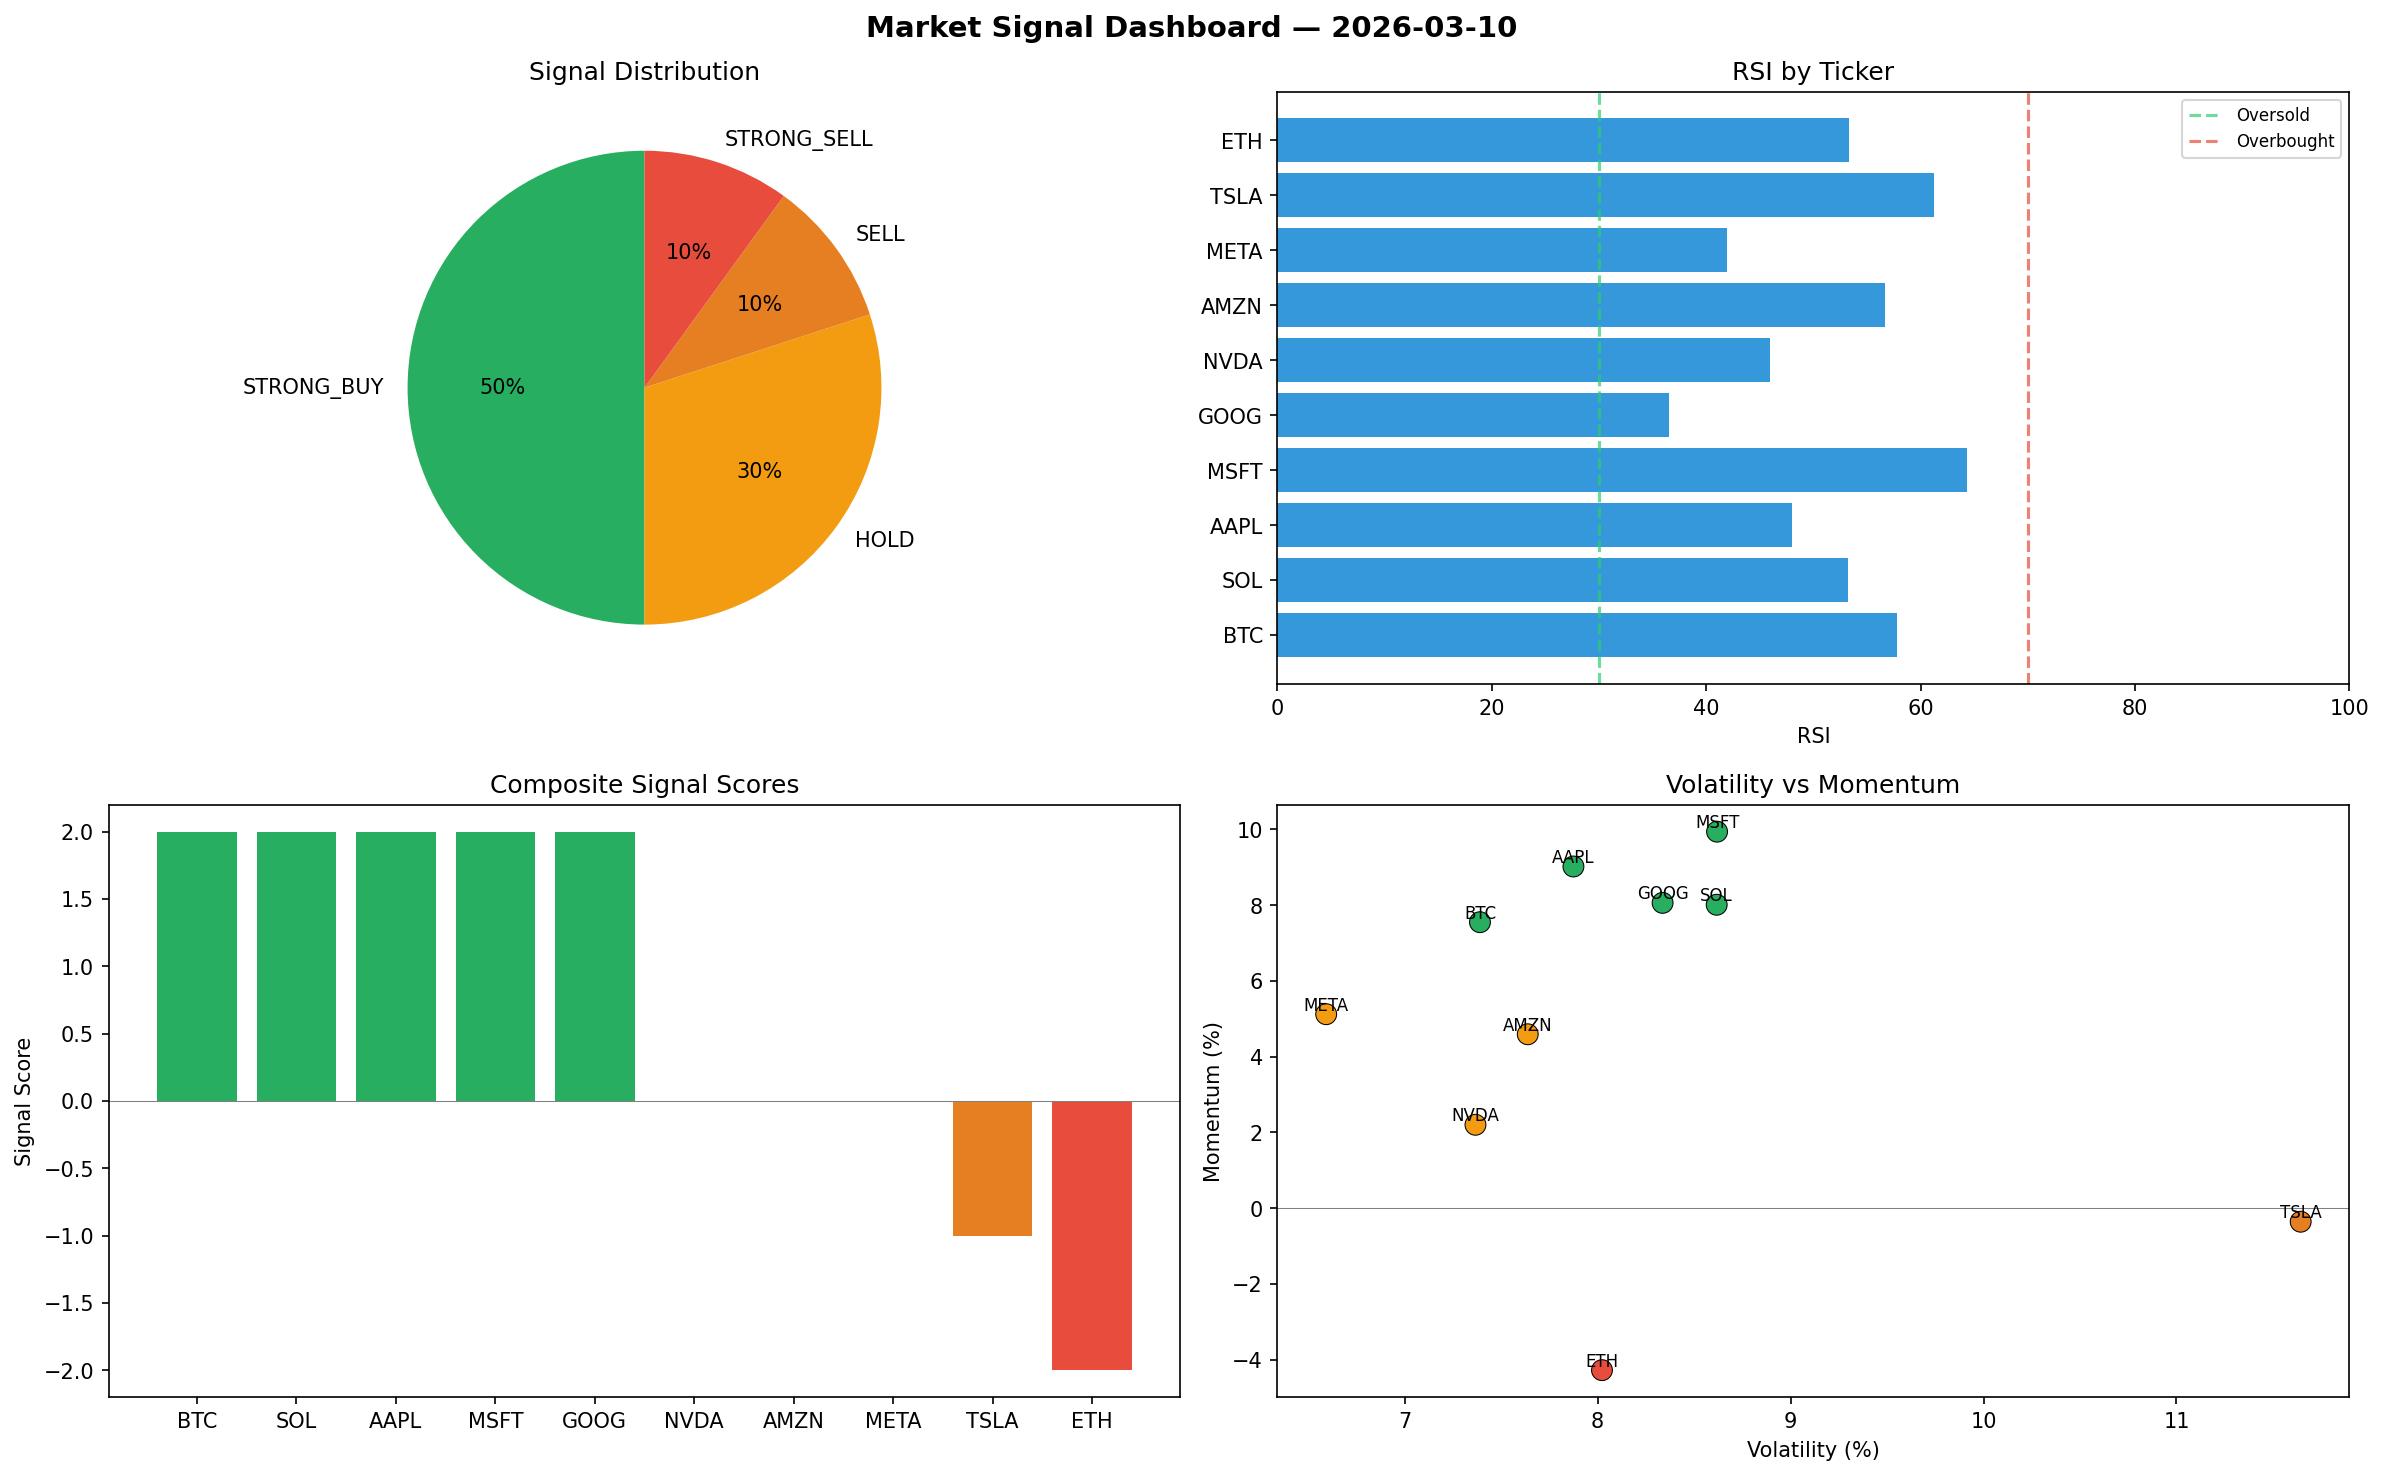
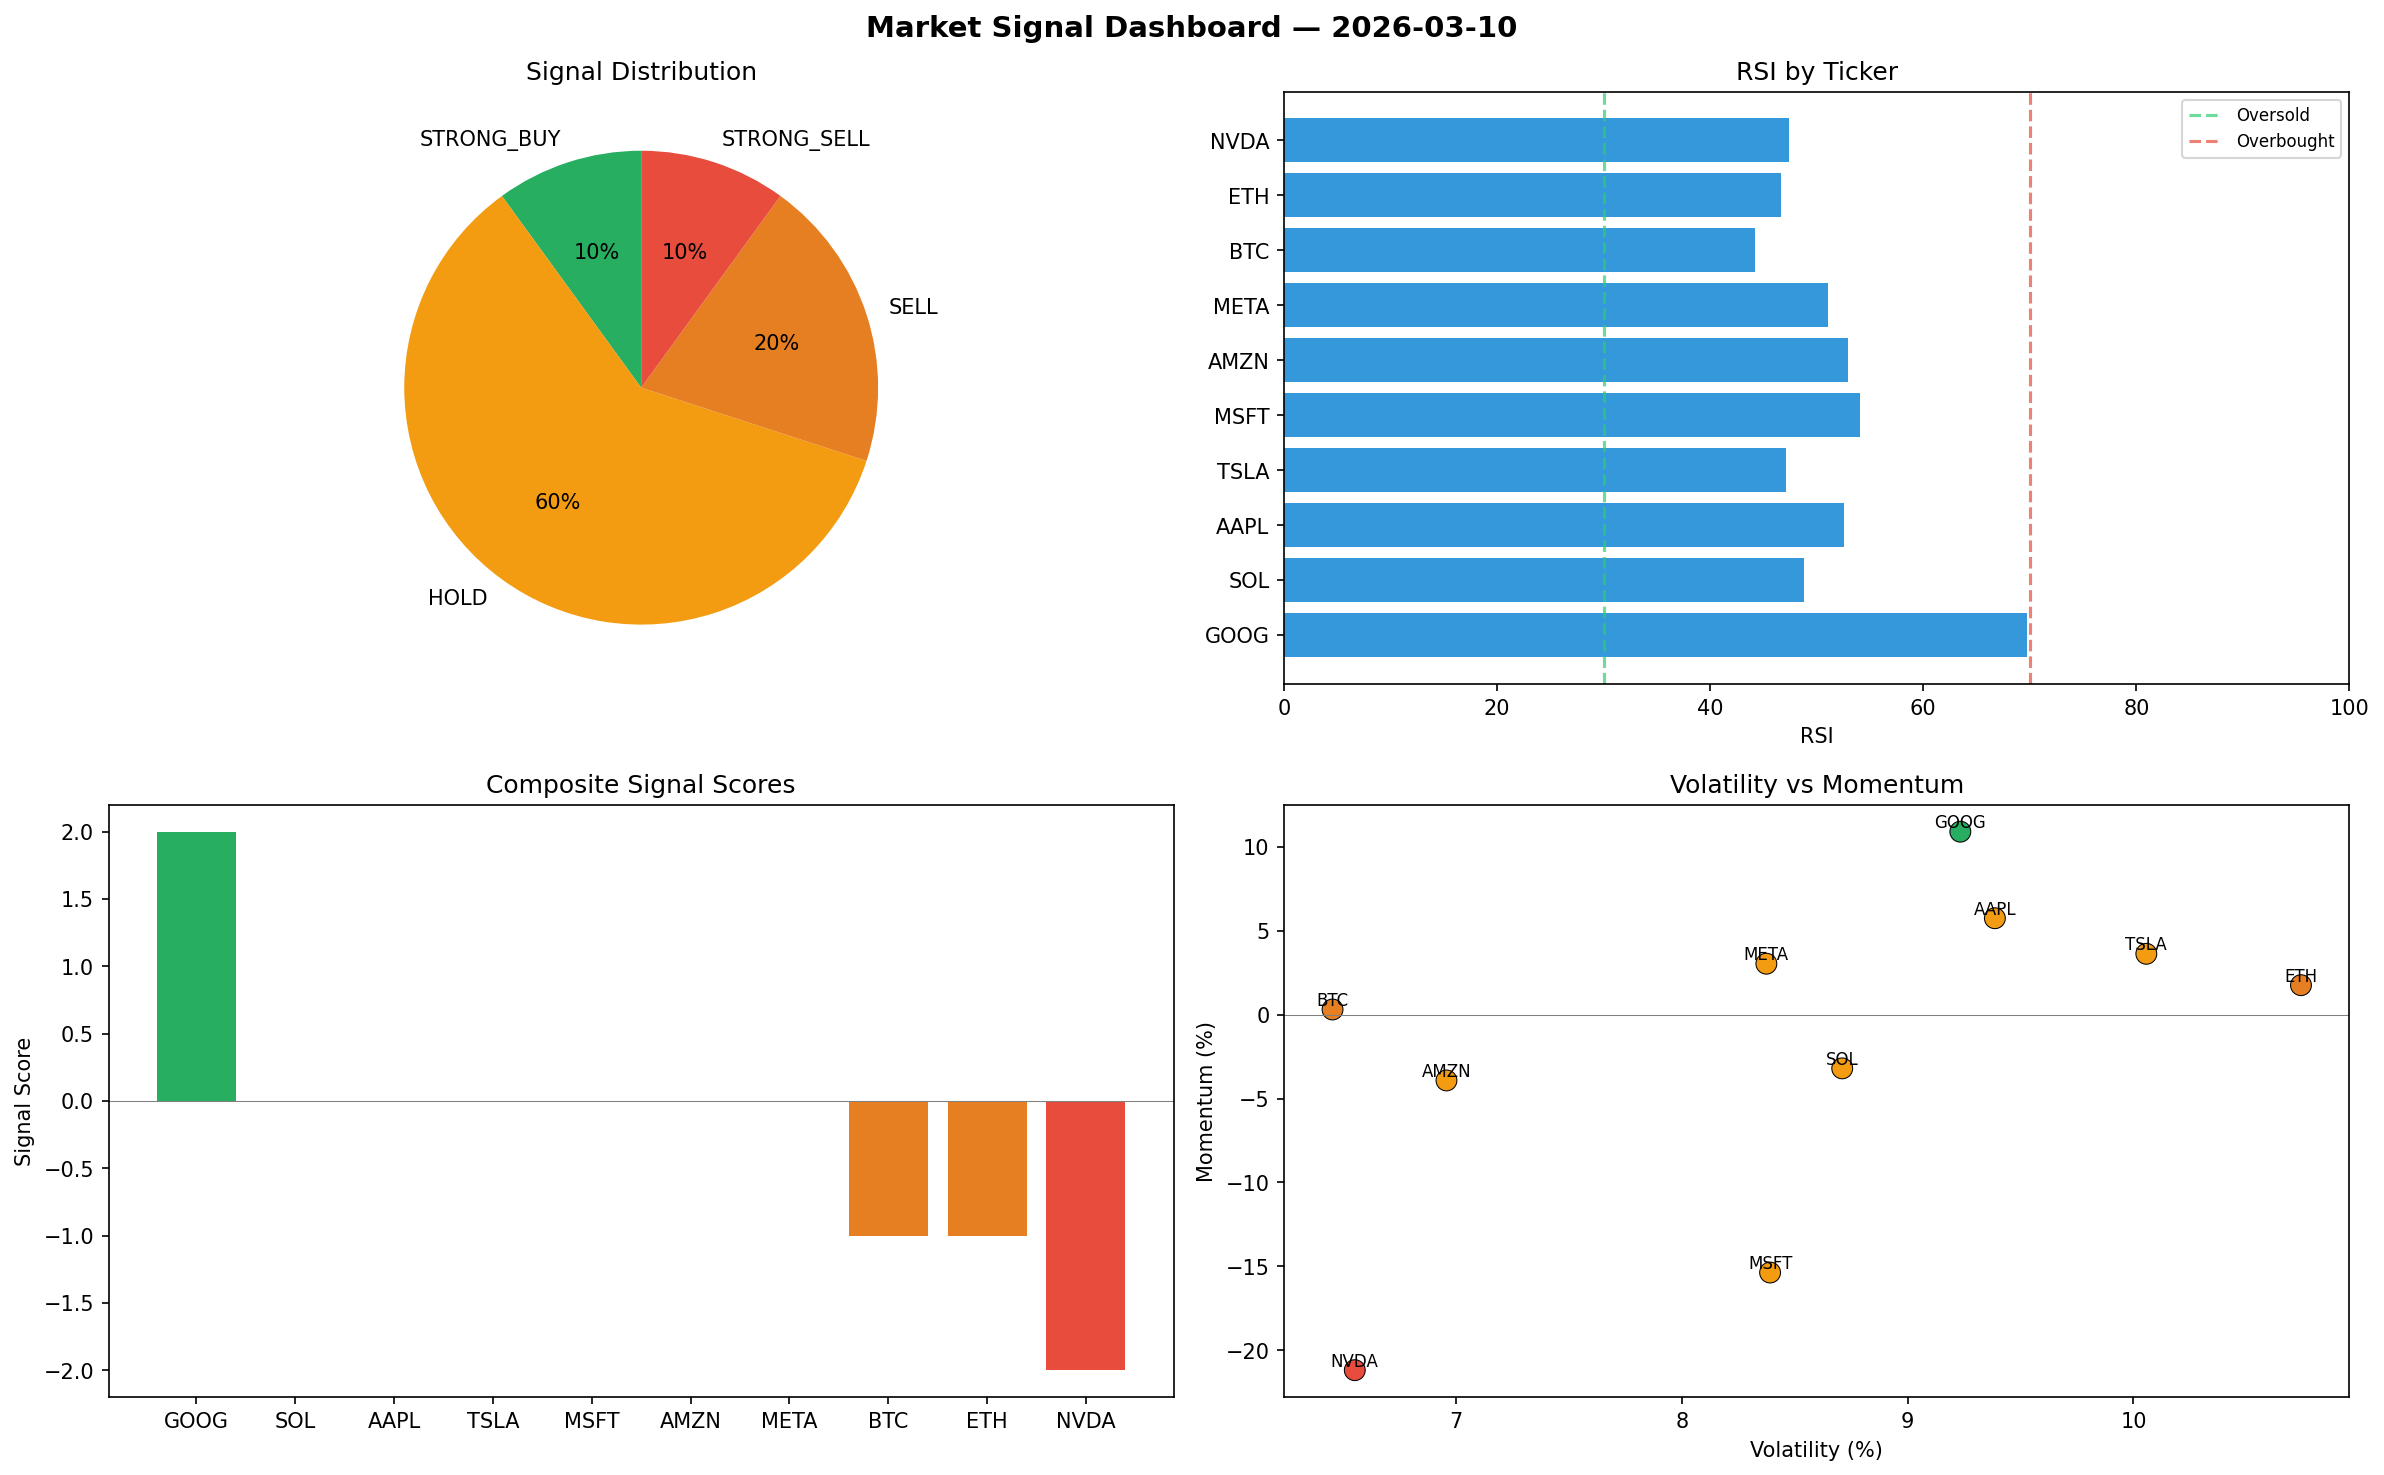
automated-bots: market signals 2026-03-10T09:06

diff --git a/logs/2026-03-10.md b/logs/2026-03-10.md
@@ -1,6 +1,6 @@
 # Market Signal Report — 2026-03-10
 
-**Run ID:** `8bce93d7e9` | **Buy:** 5 | **Sell:** 2 | **Hold:** 3
+**Run ID:** `715ce50321` | **Buy:** 1 | **Sell:** 3 | **Hold:** 6
 
 ![Dashboard](2026-03-10_dashboard.png)
 
@@ -8,28 +8,28 @@
 
 | Ticker | Price | Signal | Score | RSI | Momentum | Confidence |
 |--------|-------|--------|-------|-----|----------|------------|
-| BTC | $2995.46 | **STRONG_BUY** | 2 | 57.8 | 0.0755 | 0.5 |
-| SOL | $2021.68 | **STRONG_BUY** | 2 | 53.25 | 0.0801 | 0.5 |
-| AAPL | $2649.77 | **STRONG_BUY** | 2 | 48.03 | 0.0902 | 0.5 |
-| MSFT | $1227.03 | **STRONG_BUY** | 2 | 64.32 | 0.0994 | 0.5 |
-| GOOG | $3969.71 | **STRONG_BUY** | 2 | 36.55 | 0.0806 | 0.5 |
-| NVDA | $1995.05 | **HOLD** | 0 | 45.92 | 0.022 | 0.0 |
-| AMZN | $2926.22 | **HOLD** | 0 | 56.72 | 0.0459 | 0.0 |
-| META | $837.57 | **HOLD** | 0 | 41.89 | 0.0512 | 0.0 |
-| TSLA | $1262.5 | **SELL** | -1 | 61.25 | -0.0036 | 0.25 |
-| ETH | $4395.55 | **STRONG_SELL** | -2 | 53.35 | -0.0428 | 0.5 |
+| GOOG | $3845.37 | **STRONG_BUY** | 2 | 69.76 | 0.1091 | 0.5 |
+| SOL | $1763.29 | **HOLD** | 0 | 48.84 | -0.032 | 0.0 |
+| AAPL | $2896.01 | **HOLD** | 0 | 52.52 | 0.0575 | 0.0 |
+| TSLA | $763.41 | **HOLD** | 0 | 47.14 | 0.0363 | 0.0 |
+| MSFT | $256.6 | **HOLD** | 0 | 54.06 | -0.1537 | 0.0 |
+| AMZN | $3908.51 | **HOLD** | 0 | 52.94 | -0.0392 | 0.0 |
+| META | $3965.55 | **HOLD** | 0 | 51.05 | 0.0304 | 0.0 |
+| BTC | $2994.15 | **SELL** | -1 | 44.23 | 0.0031 | 0.25 |
+| ETH | $4121.63 | **SELL** | -1 | 46.66 | 0.0176 | 0.25 |
+| NVDA | $1176.44 | **STRONG_SELL** | -2 | 47.4 | -0.2119 | 0.5 |
 
 ## Delta vs Yesterday
 
 | Ticker | Today | Yesterday | Price Change | Signal Changed |
 |--------|-------|-----------|-------------|----------------|
-| BTC | STRONG_BUY | STRONG_SELL | 📉 -23.91% | ⚠ YES |
-| SOL | STRONG_BUY | HOLD | 📈 37.18% | ⚠ YES |
-| AAPL | STRONG_BUY | HOLD | 📈 60.55% | ⚠ YES |
-| MSFT | STRONG_BUY | STRONG_BUY | 📉 -9.25% | — |
-| GOOG | STRONG_BUY | BUY | 📈 51.77% | ⚠ YES |
-| NVDA | HOLD | STRONG_BUY | 📈 124.35% | ⚠ YES |
-| AMZN | HOLD | HOLD | 📈 31.06% | — |
-| META | HOLD | STRONG_BUY | 📉 -83.95% | ⚠ YES |
-| TSLA | SELL | STRONG_SELL | 📉 -72.61% | ⚠ YES |
-| ETH | STRONG_SELL | STRONG_SELL | 📈 90.74% | — |
+| GOOG | STRONG_BUY | BUY | 📈 47.02% | ⚠ YES |
+| SOL | HOLD | HOLD | 📈 19.65% | — |
+| AAPL | HOLD | HOLD | 📈 75.47% | — |
+| TSLA | HOLD | STRONG_SELL | 📉 -83.44% | ⚠ YES |
+| MSFT | HOLD | STRONG_BUY | 📉 -81.02% | ⚠ YES |
+| AMZN | HOLD | HOLD | 📈 75.05% | — |
+| META | HOLD | STRONG_BUY | 📉 -24.01% | ⚠ YES |
+| BTC | SELL | STRONG_SELL | 📉 -23.94% | ⚠ YES |
+| ETH | SELL | STRONG_SELL | 📈 78.85% | ⚠ YES |
+| NVDA | STRONG_SELL | STRONG_BUY | 📈 32.3% | ⚠ YES |
